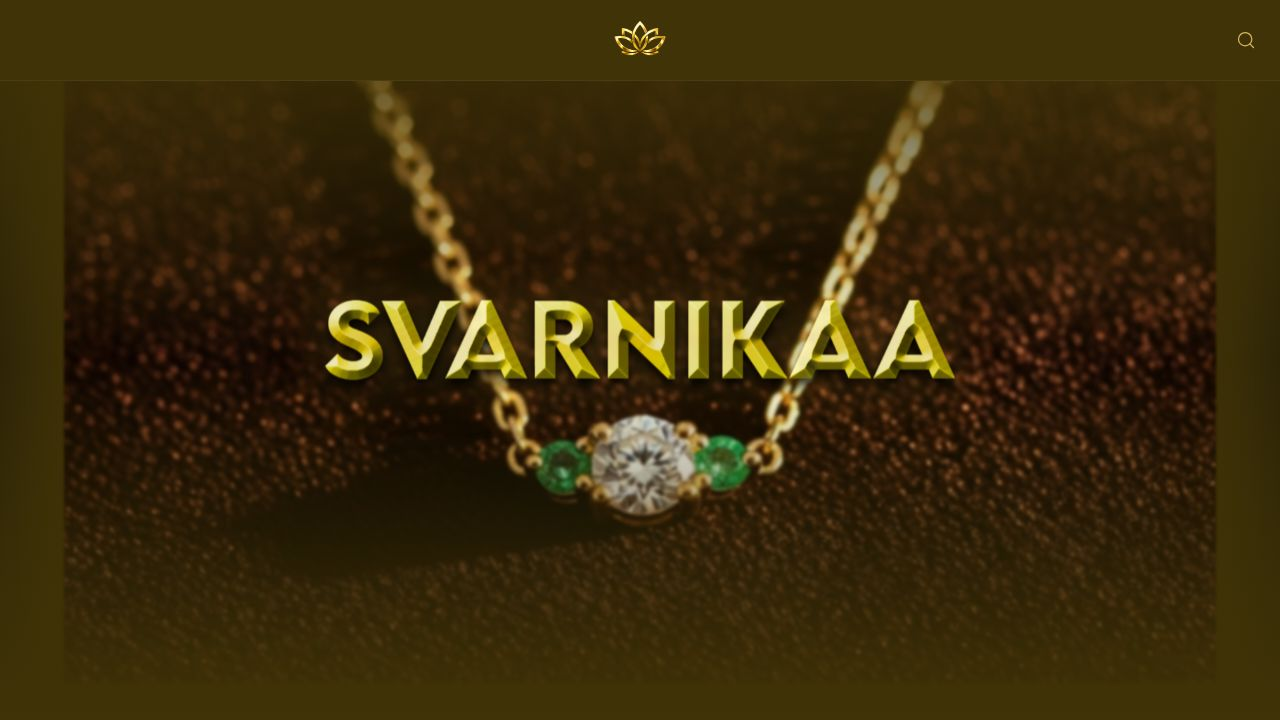
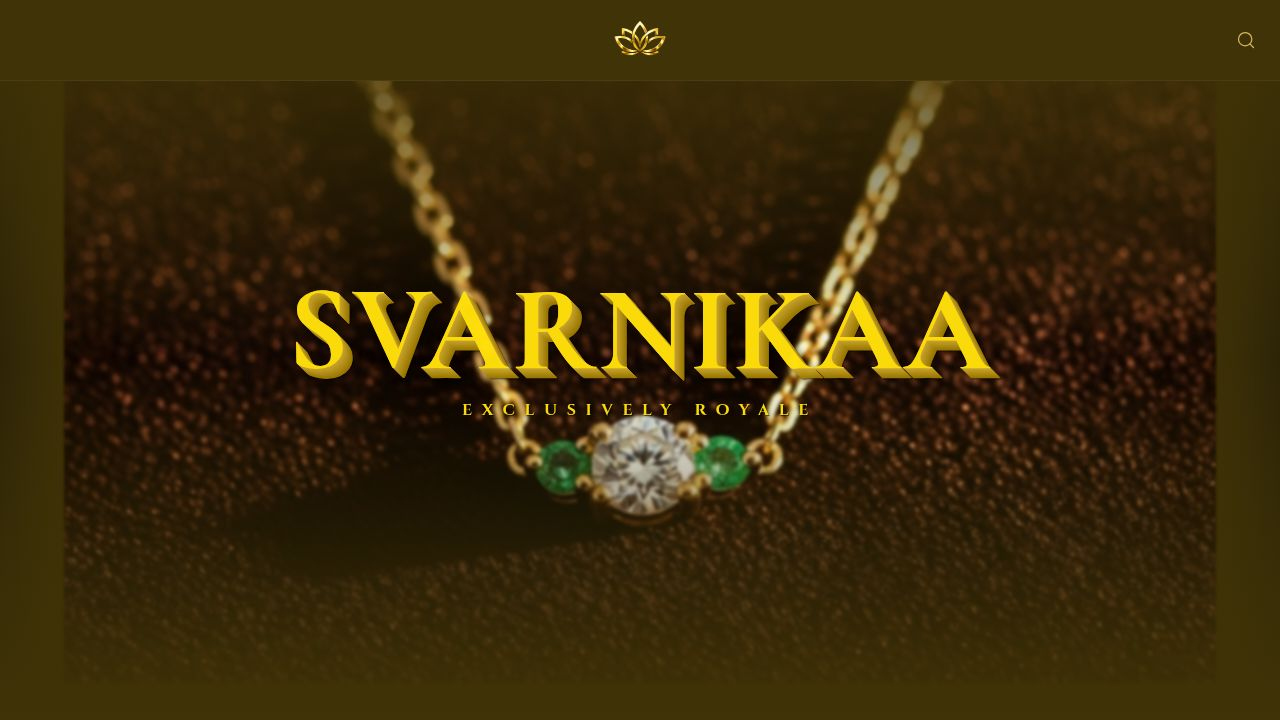
Update title and subtitle with new gold color and styling
Update CSS to apply #FFDF0B color to title-shine and subtitle-shine classes, replacing the previous gradient and shadow effects. Modify home.tsx to use h1 and p tags for title and subtitle with the new classes.

Replit-Commit-Author: Agent
Replit-Commit-Session-Id: 6b0a4569-e2fa-42ba-9806-7d7a83f48758
Replit-Commit-Checkpoint-Type: full_checkpoint
Replit-Commit-Event-Id: 9ae7e8e8-147c-4289-a3e7-cd707b2f4d07
Replit-Commit-Screenshot-Url: https://storage.googleapis.com/screenshot-production-us-central1/52b88d60-5a51-4048-b036-c272065d7ab3/6b0a4569-e2fa-42ba-9806-7d7a83f48758/aGySayt
Replit-Helium-Checkpoint-Created: true

Changed region(s): [[0.2188, 0.3972, 0.7812, 0.5806]]

diff --git a/client/src/pages/home.tsx b/client/src/pages/home.tsx
@@ -29,18 +29,19 @@ export default function Home() {
           <div className="absolute inset-0 bg-gradient-to-t from-background via-transparent to-background" />
         </div>
 
-        <div className="relative z-10 text-center space-y-6 max-w-3xl px-6 -translate-y-[15px]">
+        <div className="relative z-10 text-center space-y-4 max-w-3xl px-6 -translate-y-[15px]">
           <motion.div
             initial={{ opacity: 0, y: 30 }}
             animate={{ opacity: 1, y: 0 }}
             transition={{ duration: 1.5, ease: [0.22, 1, 0.36, 1] }}
-            className="w-full flex justify-center"
+            className="w-full flex flex-col items-center"
           >
-            <img 
-              src={logoTitle} 
-              alt="SVARNIKAA" 
-              className="w-full max-w-[63rem] h-auto drop-shadow-[0_0_30px_rgba(211,175,55,0.3)]"
-            />
+            <h1 className="title-shine">
+              SVARNIKAA
+            </h1>
+            <p className="subtitle-shine text-sm md:text-base mt-2">
+              Exclusively Royale
+            </p>
           </motion.div>
         </div>
       </section>

diff --git a/client/src/index.css b/client/src/index.css
@@ -80,7 +80,7 @@
 @layer utilities {
   .title-shine {
     font-size: clamp(3rem, 10vw, 7.5rem);
-    color: #d3af37;
+    color: #FFDF0B;
     font-family: 'Cormorant Garamond', serif;
     font-weight: 700;
     line-height: 1;
@@ -107,22 +107,10 @@
     font-family: "Cinzel", serif;
     font-weight: 700;
     letter-spacing: 0.6em;
-    background: linear-gradient(
-        180deg,
-        #a7f3d0 0%,
-        #6ee7b7 15%,
-        #34d399 30%,
-        #10b981 45%,
-        #059669 60%,
-        #047857 75%,
-        #064e3b 100%
-    );
-    -webkit-background-clip: text;
-    -webkit-text-fill-color: transparent;
+    color: #FFDF0B;
     text-shadow:
-        1px 1px 0 #064e3b,
-        1px 2px 0 #065f46,
-        4px 4px 8px rgba(0,0,0,0.3);
+        1px 1px 0 rgba(0,0,0,0.5),
+        2px 2px 4px rgba(0,0,0,0.3);
   }
   .button-shining-gold {
     background: linear-gradient(
